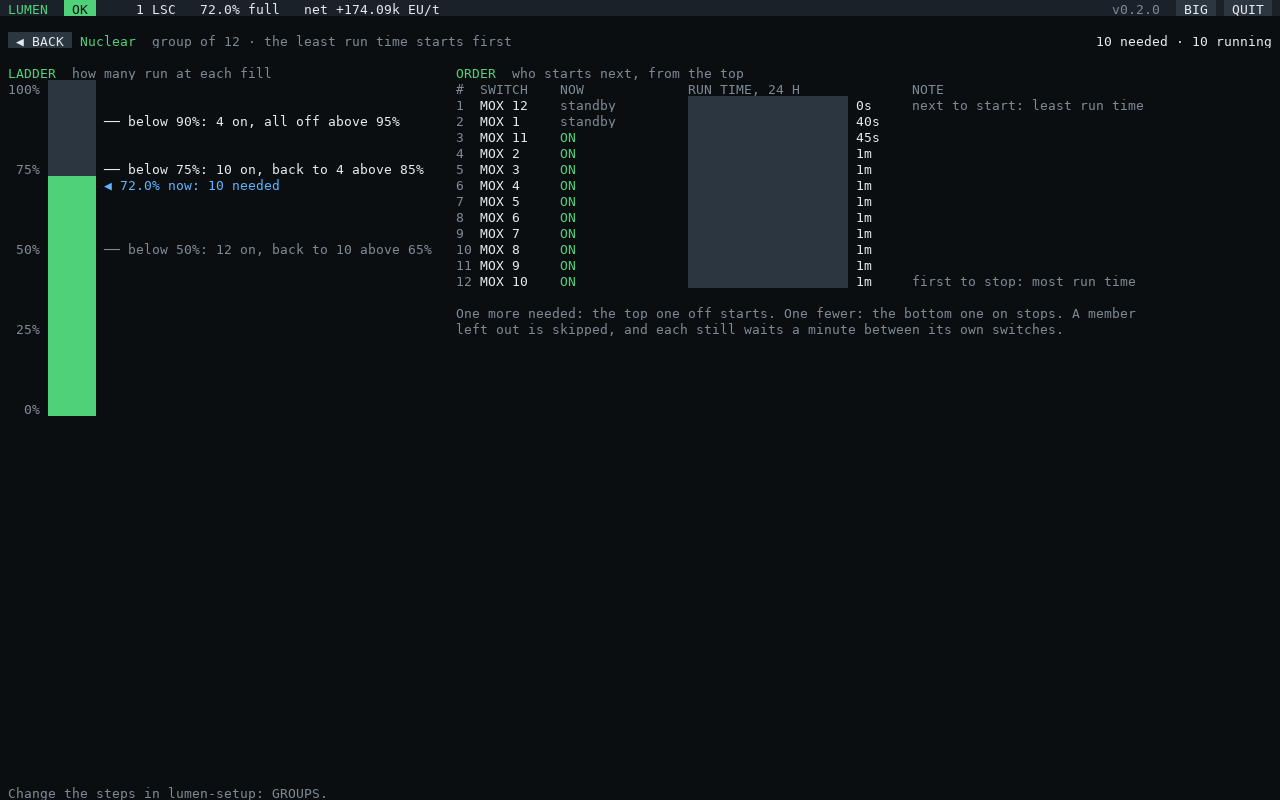
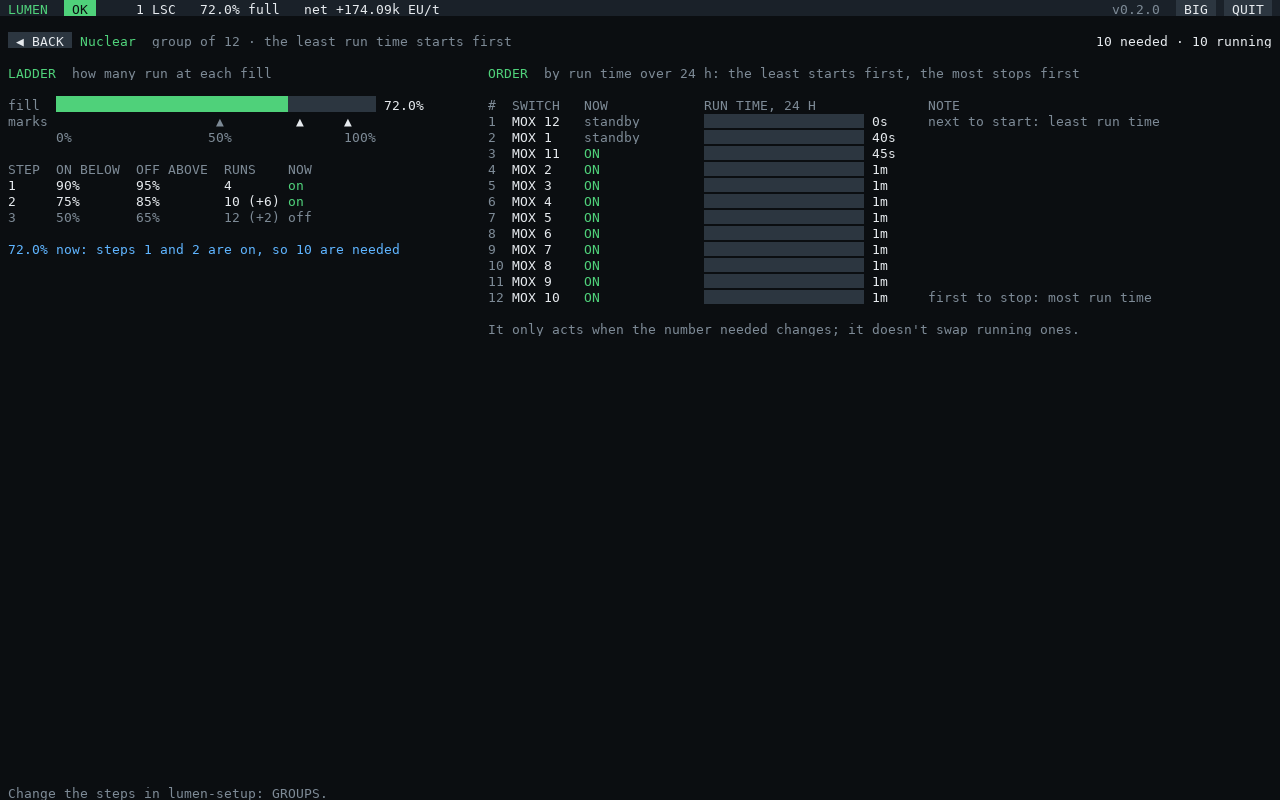
Group page: a table of steps, whole names, and what it does and doesn't do
Seen in game: four "Reactor N-x" members all showed as "Reactor …"; two
steps on the same 75% mark drew over each other, so step 1 was missing;
and the fill marker, pushed off a mark's row, sat above 75% at 71.8%.

- LADDER: the fill on a bar with each step's mark under it, a table of
  the steps (on below, off above, how many run in all, on now), why that
  many are needed, and a note when steps share a mark.
- ORDER: the name column fits the longest name; thinner bars; it says it
  only acts when the number needed changes (running ones aren't swapped).

diff --git a/CHANGELOG.md b/CHANGELOG.md
@@ -19,8 +19,8 @@ versions follow [Semantic Versioning](https://semver.org/).
   A bad alert; LENS gets `lumen_switch_trip`.
 - **Groups** (`groups`, and `group` on a switch): a ladder of steps runs as many members as the fill needs; the
   least run time starts first (`rotate`), and a member that's faulted, tripped or set by hand is skipped. A line
-  per group on the main screen with its members under it ("Not in a group" after); tap it for its page (the
-  ladder and who starts next). LENS gets
+  per group on the main screen with its members under it ("Not in a group" after); tap it for its page (its
+  steps, the fill, why that many are needed, and who starts next and stops first). LENS gets
   `lumen_group_needed` and `lumen_group_running`.
 - **Always-on switches** (`always = true`): no marks, ON / OFF on the screen; faults and heat trips still stop it
   (a breeder that should never stop). `lumen-setup`'s **Runs ▸** picks by fill, always, or a group.

diff --git a/docs/setup.md b/docs/setup.md
@@ -69,8 +69,10 @@ LSC or generator reports, to check the adapters are connected.
 
 ![Twelve reactors as tiles on a wall of screens 7 wide, 3 tall (160 × 33)](images/lumen-tiles-wall.png)
 
-**Tap a group** for its page: the **LADDER** (the fill against each step's marks, and how many it needs now) and
-the **ORDER** (who starts next, each member's run time over 24 hours, and why one is left out).
+**Tap a group** for its page: the **LADDER** (the fill on a bar with each step's mark under it; each step's marks,
+how many run in all and whether it's on; and why that many are needed now) and the **ORDER** (the members by run
+time over 24 hours: who starts next and who stops first, and why one is left out). It only acts when the number
+needed changes; it doesn't swap running reactors to even out their run time.
 
 ![A group's page](images/lumen-group.png)
 
